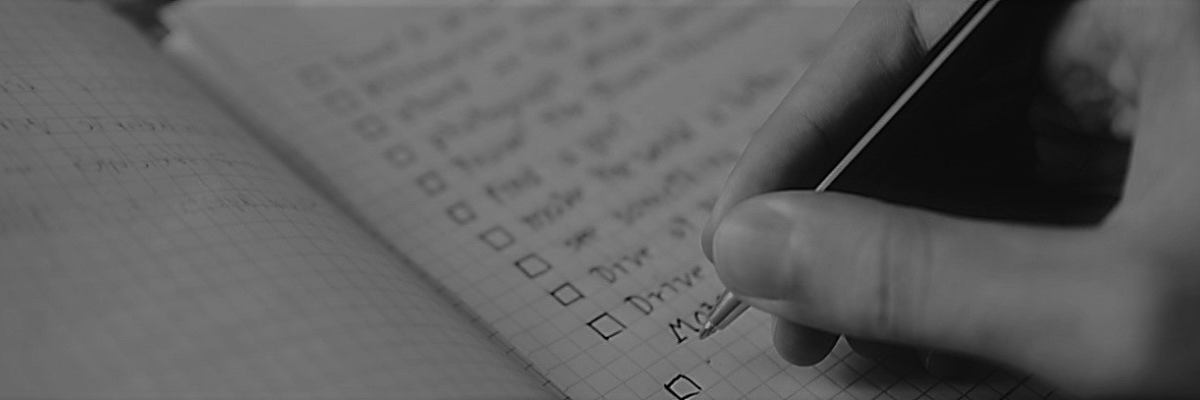
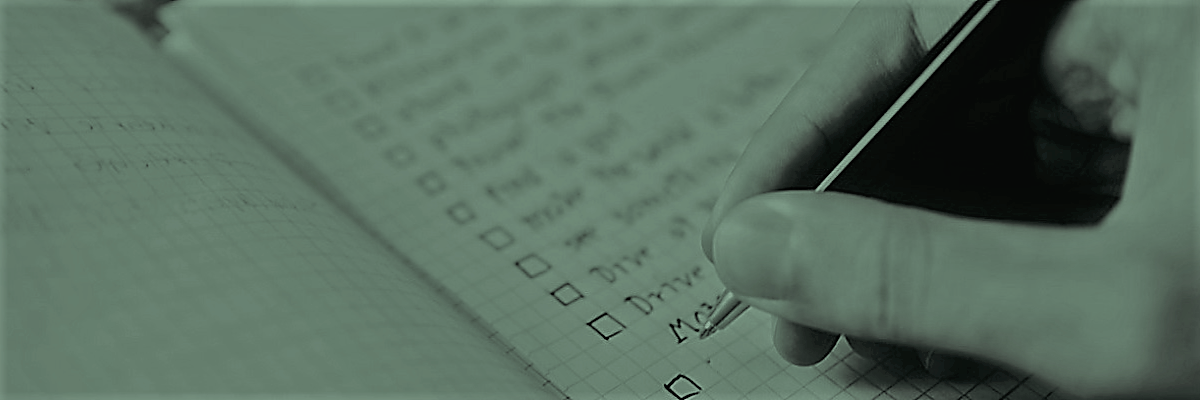
added color

diff --git a/src/app/home/home.component.html b/src/app/home/home.component.html
@@ -1,51 +1,51 @@
 <ngb-carousel>
   <ng-template ngbSlide class="carousel-item carousel-image-1">
     <img src="../../assets/images/Checklist2.png" alt="Books and Lists" width="100%">
-    <div class="carousel-caption">
-      <h4>Checklists</h4>
+    <div class="carousel-caption ">
+      <h4><i class="far fa-list-alt"></i> Checklists</h4>
       <p>Streamline tasks with checklists.</p>
     </div>
   </ng-template>
   <ng-template ngbSlide class="carousel-item carousel-image-2">
     <img src="../../assets/images/share5.png" alt="People sharing checklists" width="100%">
     <div class="carousel-caption">
-      <h4>Publish</h4>
+      <h4><i class="far fa-handshake"></i> Publish</h4>
       <p>Share checklists and results.</p>
     </div>
   </ng-template>
   <ng-template ngbSlide class="carousel-item carousel-image-3">
     <img src="../../assets/images/Analysis.jpg" alt="Analyzing checklist trends" width="100%">
     <div class="carousel-caption">
-      <h4>Analyze</h4>
+      <h4><i class="fas fa-chart-line"></i> Analyze</h4>
       <p>Review checklists, Analyze and improve.</p>
     </div>
   </ng-template>
 </ngb-carousel>
 
 <!-- show each capability as a separate cards -->
-<div class="card-columns mb-3">
-  <div class="card">
-    <div class="card-header text-center">
-      <i class="far fa-list-alt"></i> Checklists
+<div class="card-columns mt-5">
+  <div class="card ">
+    <div class="card-header text-center text-success">
+      <h4><i class="far fa-list-alt"></i> Checklists</h4>
     </div>
     <div class="card-body">
-      <h4 class="card-title">Streamline tasks with checklists.</h4>
+      <b class="card-title">Streamline tasks with checklists.</b>
       <p class="card-text">Use checklists to streamline your activities, processes or hobbies. </p>
     </div>
   </div>
   <div class="card">
-    <div class="card-header  text-center">
-      <i class="far fa-handshake"></i> Publish
+    <div class="card-header  text-center text-info">
+      <h4><i class="far fa-handshake"></i> Publish</h4>
     </div>
     <div class="card-body">
-      <h4 class="card-title">Publish and share checklists and checklist designs.</h4>
+      <b class="card-title">Publish and share checklists and checklist designs.</b>
       <p class="card-text">Publish checklists to for sharing. Use the community to improve, share and refine
         checklists.</p>
     </div>
   </div>
   <div class="card">
-    <div class="card-header  text-center">
-      <i class="fas fa-chart-line"></i> Analyze
+    <div class="card-header  text-center text-warning">
+      <h4><i class="fas fa-chart-line"></i> Analyze</h4>
     </div>
     <div class="card-body">
       <b class="card-title">Analyze the results of checklists.</b>
